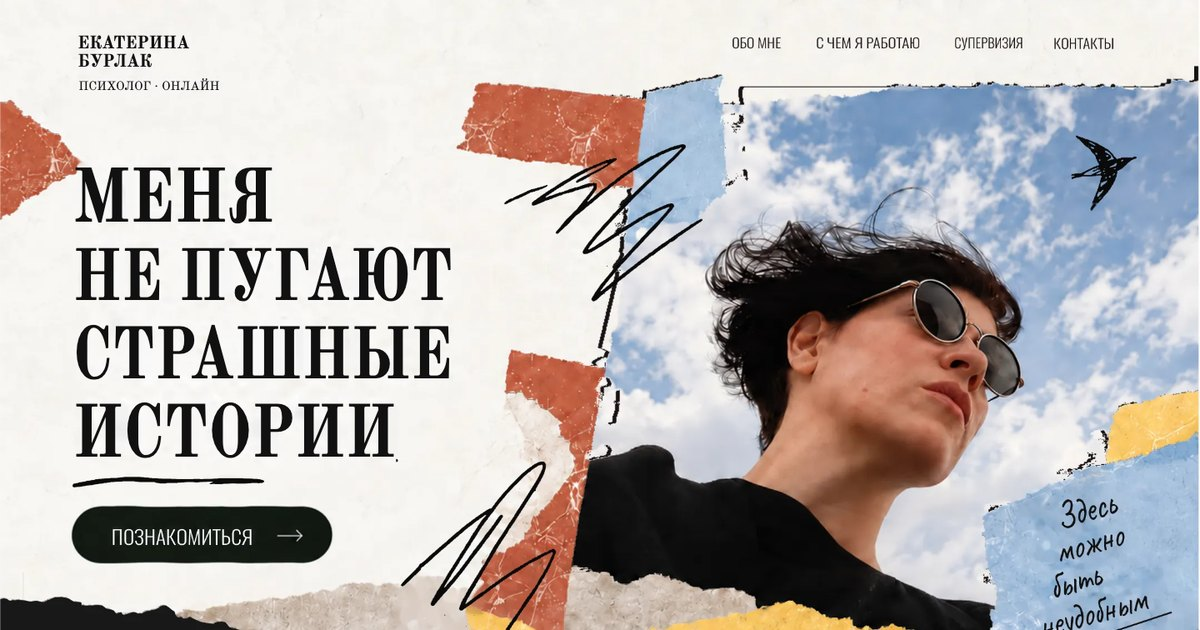
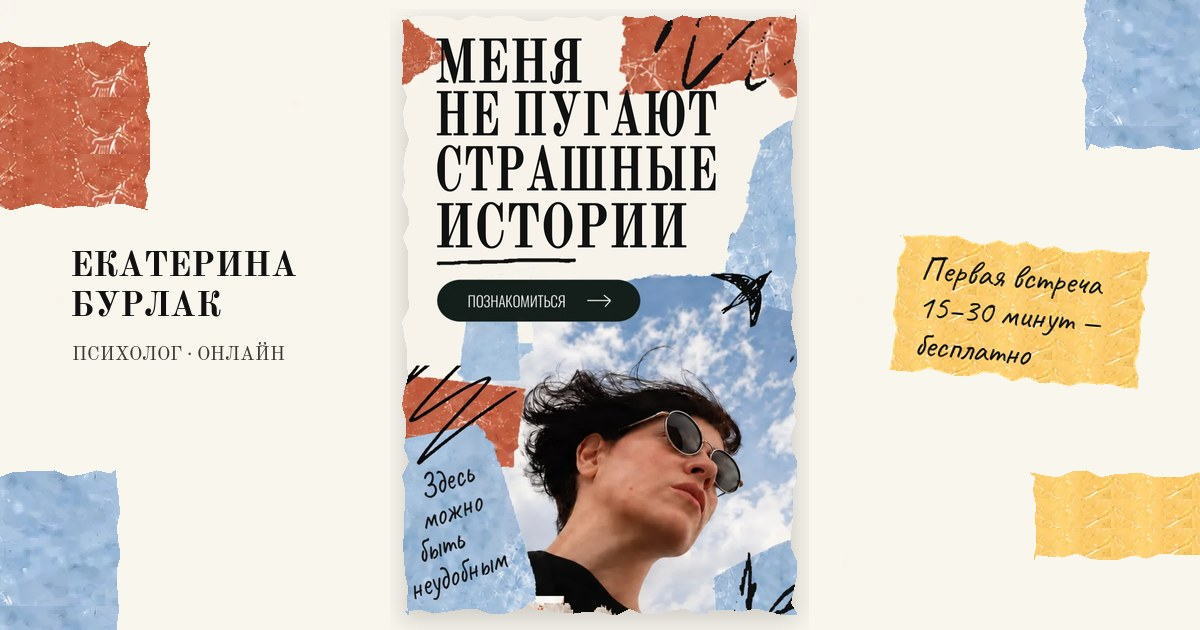
Превью для соцсетей: главное в центре картинки (не режется квадратом), короткое описание

diff --git a/index.html b/index.html
@@ -10,15 +10,15 @@
 <meta property="og:locale" content="ru_RU">
 <meta property="og:url" content="https://ekaterinaburlak.com/">
 <meta property="og:title" content="Екатерина Бурлак — психолог онлайн">
-<meta property="og:description" content="Меня не пугают страшные истории. Травма, стыд, тревога, близость. Первая встреча 15–30 минут бесплатно.">
-<meta property="og:image" content="https://ekaterinaburlak.com/assets/img/og.jpg">
+<meta property="og:description" content="Травма, стыд, тревога, близость. Первая встреча 15–30 минут — бесплатно.">
+<meta property="og:image" content="https://ekaterinaburlak.com/assets/img/og.jpg?v=2">
 <meta property="og:image:width" content="1200">
 <meta property="og:image:height" content="630">
 <meta property="og:image:alt" content="Екатерина Бурлак, психолог: «Меня не пугают страшные истории»">
 <meta name="twitter:card" content="summary_large_image">
 <meta name="twitter:title" content="Екатерина Бурлак — психолог онлайн">
-<meta name="twitter:description" content="Меня не пугают страшные истории. Первая встреча 15–30 минут бесплатно.">
-<meta name="twitter:image" content="https://ekaterinaburlak.com/assets/img/og.jpg">
+<meta name="twitter:description" content="Травма, стыд, тревога, близость. Первая встреча 15–30 минут — бесплатно.">
+<meta name="twitter:image" content="https://ekaterinaburlak.com/assets/img/og.jpg?v=2">
 <link rel="canonical" href="https://ekaterinaburlak.com/">
 <link rel="icon" href="favicon.svg" type="image/svg+xml">
 <link rel="preload" href="assets/fonts/OldStandardTT-Bold.woff" as="font" type="font/woff" crossorigin>
